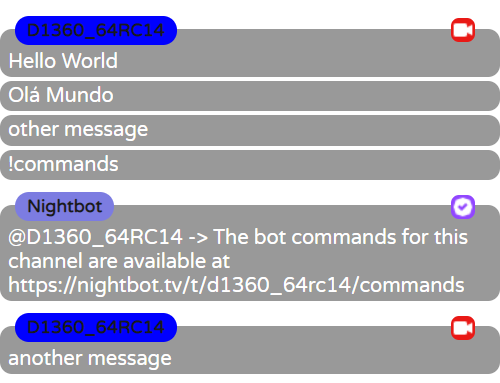
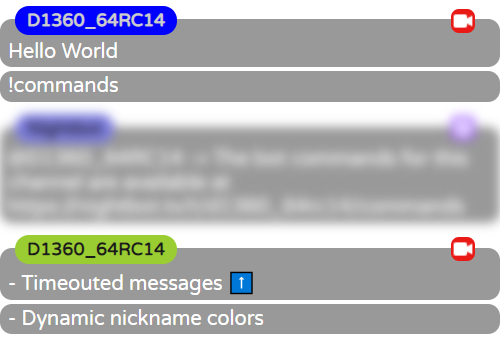
Fixed nickname colors

diff --git a/JS.js b/JS.js
@@ -11,10 +11,8 @@ class Utils {
 	}
 	
 	hexToHSL(hex) {
-		var result = /^#?([a-f\d]{2})([a-f\d]{2})([a-f\d]{2})$/i.exec(hex);
-		var r = parseInt(result[1], 16);
-		var g = parseInt(result[2], 16);
-		var b = parseInt(result[3], 16);
+		var r, g, b;
+		[r, g, b] = this.hexToRGB(hex);
 		r /= 255, g /= 255, b /= 255;
 		var max = Math.max(r, g, b), min = Math.min(r, g, b);
 		var h, s, l = (max + min) / 2;
@@ -32,6 +30,25 @@ class Utils {
 		}
 		var HSL = [h*360, s*100, l*100];
 		return HSL.map(k => Math.round(k));
+	}
+	hexToRGB(hex){
+		var result, r, g, b;
+		result = /^#?([a-f\d]{2})([a-f\d]{2})([a-f\d]{2})$/i.exec(hex);
+		r = parseInt(result[1], 16);
+		g = parseInt(result[2], 16);
+		b = parseInt(result[3], 16);
+		return [r, g, b];
+	}
+	isLight(hex) {
+		var r, g, b, hsp;
+		[r, g, b] = this.hexToRGB(hex);
+		// HSP (Highly Sensitive Poo) equation from http://alienryderflex.com/hsp.html
+		hsp = Math.sqrt(
+		0.299 * (r * r) +
+		0.587 * (g * g) +
+		0.114 * (b * b)
+		);
+		return hsp > 127.5 ? true : false;
 	}
 }
 /* ====================== */
@@ -64,9 +81,7 @@ class EachMessageThings {
 	dynamicNickColors(){
 		var userColor = this.messageObj.detail.tags.color;
 		
-		var userColorHSL = utils.hexToHSL(userColor);
-		if(userColorHSL[2] >= 50 || userColorHSL[1] >= 50){
-			console.log('asdasdasd')
+		if(utils.isLight(userColor)){
 			utils.getMessage(this.messageObj).children[0].children[0].classList.add('dark');
 		}
 	}
